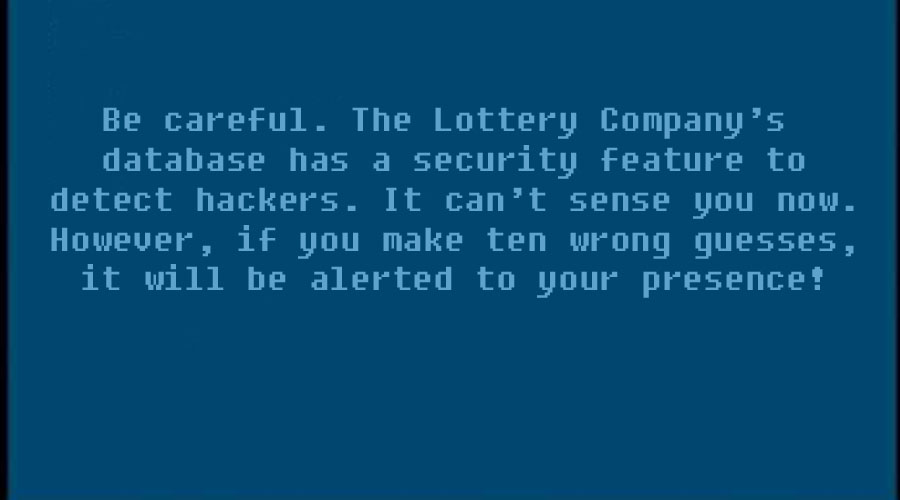
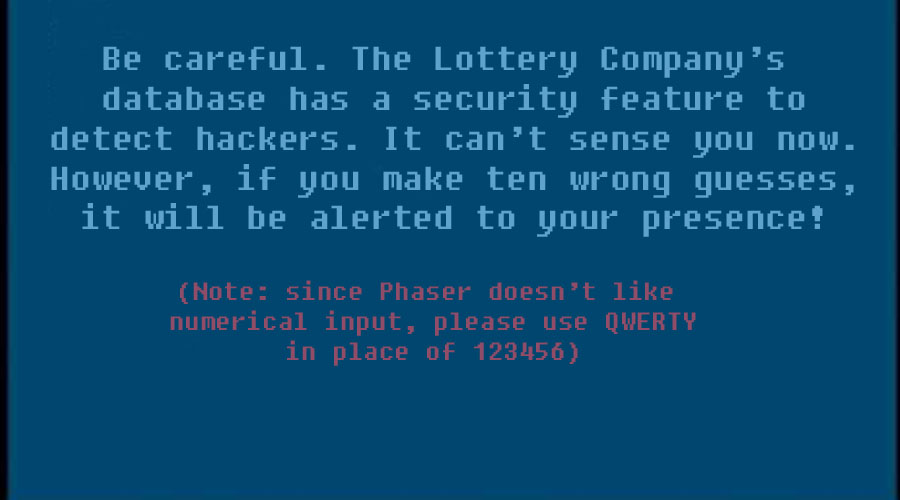
win and lose

Changed region(s): [[0.0311, 0.18, 0.9644, 0.72], [0.1867, 0.09, 0.8711, 0.15], [0.0933, 0.09, 0.1556, 0.15]]

diff --git a/js/main.js b/js/main.js
@@ -16,6 +16,8 @@ function preload() {
 	game.load.image('intro3','assets/intro3.jpg');
 	game.load.image('ok','assets/ok.jpg');
 	game.load.image('next','assets/next.jpg');
+	game.load.image('alert','assets/alert.jpg');
+	game.load.image('win','assets/winning.jpg');
 }
 
 var num1;
@@ -61,28 +63,29 @@ function create() {
             };
 	
 }
-
-function infopage1 () {
+////////////////////////////////////////////////////////////////////////////////
+function infopage1() {
 	background.loadTexture('intro2',0);
 	next.inputEnabled = true;
   	next.events.onInputDown.add(infopage2, this);
 }
 
-function infopage1 () {
+function infopage2() {
 	background.loadTexture('intro3',0);
 	next.loadTexture('ok',0);
 	next.inputEnabled = true;
   	next.events.onInputDown.add(startpage, this);
 }
 
-function startpage (){
+function startpage(){
 	background.loadTexture('bg',0);
-	next.destroy();
+	next.visible = false;
+	next.inputEnabled = false;
 	game.add.sprite(10, 3, 'newline');
 	numCount +=1;
 	update();
 }
-
+////////////////////////////////////////////////////////////////////////////////
 function update() {
 	if(this.nums.g1.isDown)
 	{
@@ -140,8 +143,8 @@ function update() {
 	}
 
 }
-
-function make1 () {
+////////////////////////////////////////////////////////////////////////////////
+function make1() {
 	var xval = (numCount*20)+5;
 	numCount += 1;
 	var yval = guessCount + 3;
@@ -160,8 +163,10 @@ function make1 () {
 	if(numCount===5){
 		guess4 = 1;
 		check();
-		numCount = 0;
+		numCount = 1;
 		guessCount += 50;
+		yval = guessCount+3;
+		game.add.sprite(10, yval, 'newline');
 	}
 		 
 		 
@@ -171,7 +176,7 @@ function make1 () {
 	}
 	
 }
-function make2 () {
+function make2() {
 	var xval = (numCount*20)+5;
 	numCount += 1;
 	var yval = guessCount + 3;
@@ -189,8 +194,10 @@ function make2 () {
 	if(numCount===5){
 		guess4 = 2;
 		check();
-		numCount = 0;
+		numCount = 1;
 		guessCount += 50;
+		yval = guessCount+3;
+		game.add.sprite(10, yval, 'newline');
 	}
 		 
 		 
@@ -199,7 +206,7 @@ function make2 () {
 		endGame();
 	}
 }
-function make3 () {
+function make3() {
 	var xval = (numCount*20)+5;
 	numCount += 1;
 	var yval = guessCount + 3;
@@ -217,8 +224,10 @@ function make3 () {
 	if(numCount===5){
 		guess4 = 3;
 		check();
-		numCount = 0;
+		numCount = 1;
 		guessCount += 50;
+		yval = guessCount+3;
+		game.add.sprite(10, yval, 'newline');
 	}
 		 
 		 
@@ -227,7 +236,7 @@ function make3 () {
 		endGame();
 	}
 }
-function make4 () {
+function make4() {
 	var xval = (numCount*20)+5;
 	numCount += 1;
 	var yval = guessCount + 3;
@@ -245,8 +254,10 @@ function make4 () {
 	if(numCount===5){
 		guess4 = 4;
 		check();
-		numCount = 0;
+		numCount = 1;
 		guessCount += 50;
+		yval = guessCount+3;
+		game.add.sprite(10, yval, 'newline');
 	}
 		 
 		 
@@ -255,7 +266,7 @@ function make4 () {
 		endGame();
 	}
 }
-function make5 () {
+function make5() {
 	var xval = (numCount*20)+5;
 	numCount += 1;
 	var yval = guessCount + 3;
@@ -273,8 +284,10 @@ function make5 () {
 	if(numCount===5){
 		guess4 = 5;
 		check();
-		numCount = 0;
+		numCount = 1;
 		guessCount += 50;
+		yval = guessCount+3;
+		game.add.sprite(10, yval, 'newline');
 	}
 		 
 		 
@@ -283,7 +296,7 @@ function make5 () {
 		endGame();
 	}
 }
-function make6 () {
+function make6() {
 	var xval = (numCount*20)+5;
 	numCount += 1;
 	var yval = guessCount + 3;
@@ -301,8 +314,10 @@ function make6 () {
 	if(numCount===5){
 		guess4 = 6;
 		check();
-		numCount = 0;
+		numCount = 1;
 		guessCount += 50;
+		yval = guessCount+3;
+		game.add.sprite(10, yval, 'newline');
 	}
 		 
 		 
@@ -311,8 +326,8 @@ function make6 () {
 		endGame();
 	}
 }
-
-function check (){
+////////////////////////////////////////////////////////////////////////////////
+function check(){
 	var xval = 450;
 	var amount = 0;
 	var yval = 0;
@@ -452,21 +467,32 @@ function check (){
 		}
 	}
 }
-
-function endGame (){
-	next.revive();
+////////////////////////////////////////////////////////////////////////////////
+function endGame(){
+	background.loadTexture('alert',0);
+	next.visible= true;
+	next.loadTexture('ok',0);
+	next.inputEnabled = true;
+  	next.events.onInputDown.add(restart, this);
 	
 }
 
-function winning (){
-	next.revive();
+function winning(){
+	background.loadTexture('win',0);
+	next.visible = true;
+	next.loadTexture('ok',0);
+	next.inputEnabled = true;
+  	next.events.onInputDown.add(restart, this);
 }
 
-function restart (){
-	
+function restart(){
+	background.loadTexture('intro1',0);
+	next.loadTexture('next',0);
+	next.inputEnabled = true;
+  	next.events.onInputDown.add(infopage1, this);
 }
 
-function render () {
+function render() {
 
     // game.debug.text(game.time.physicsElapsed, 32, 32);
     //game.debug.body(player);
